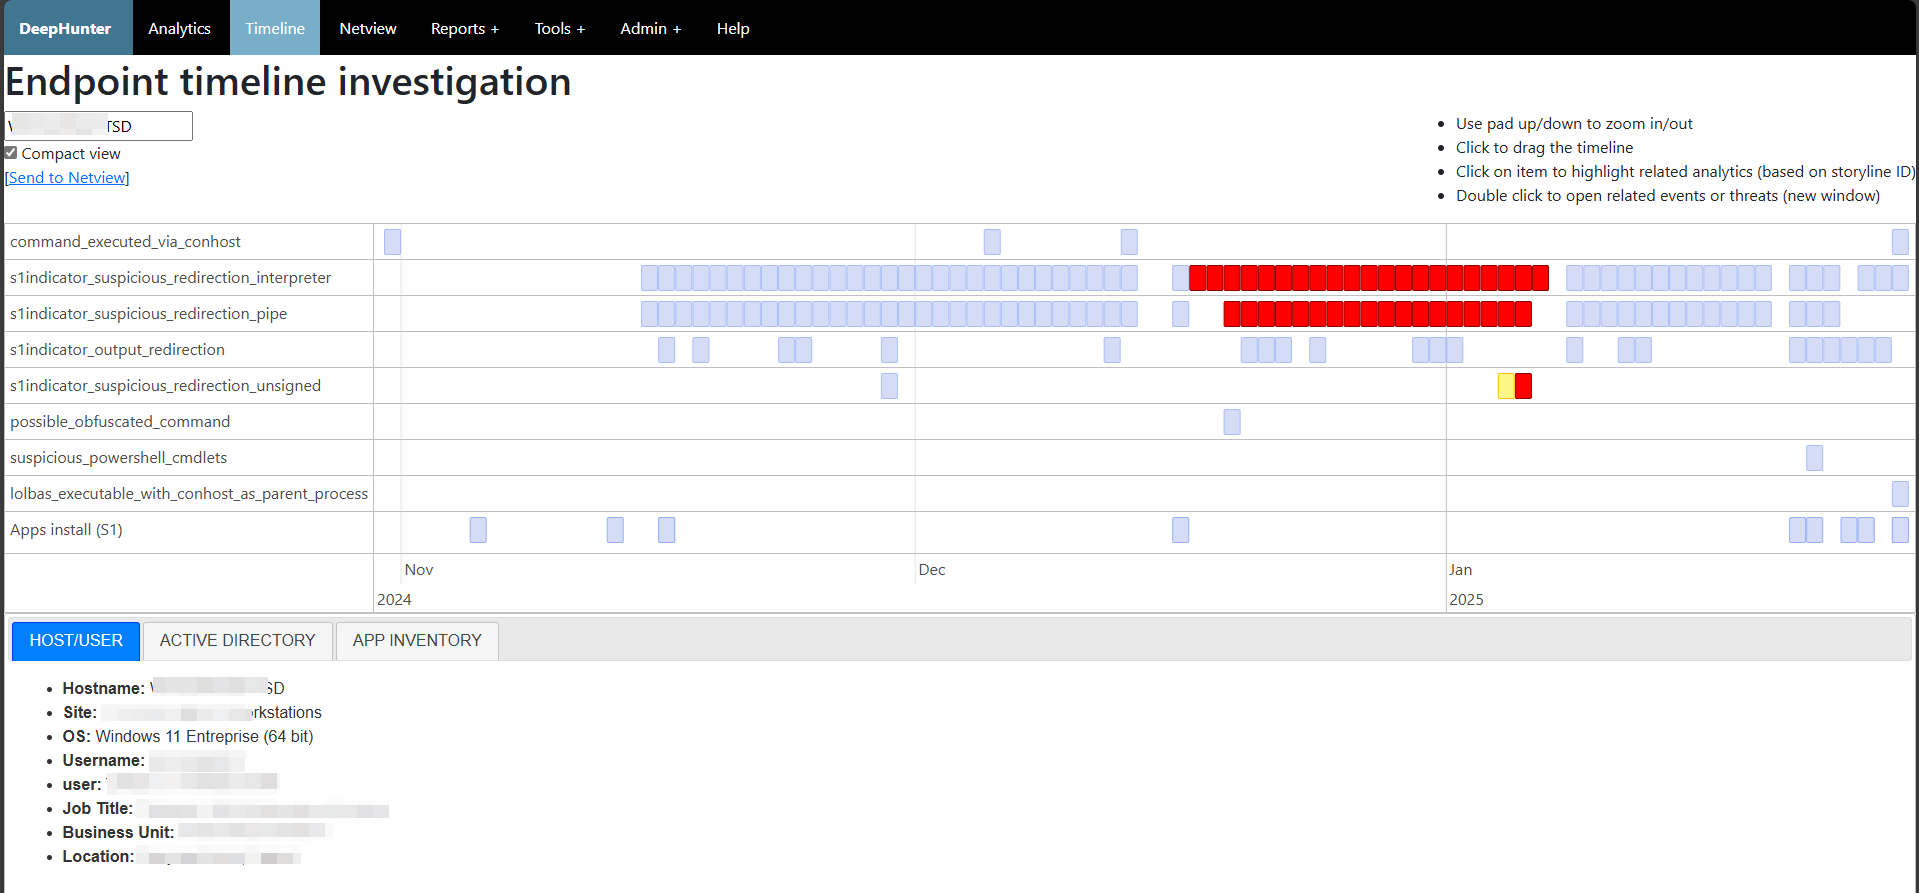
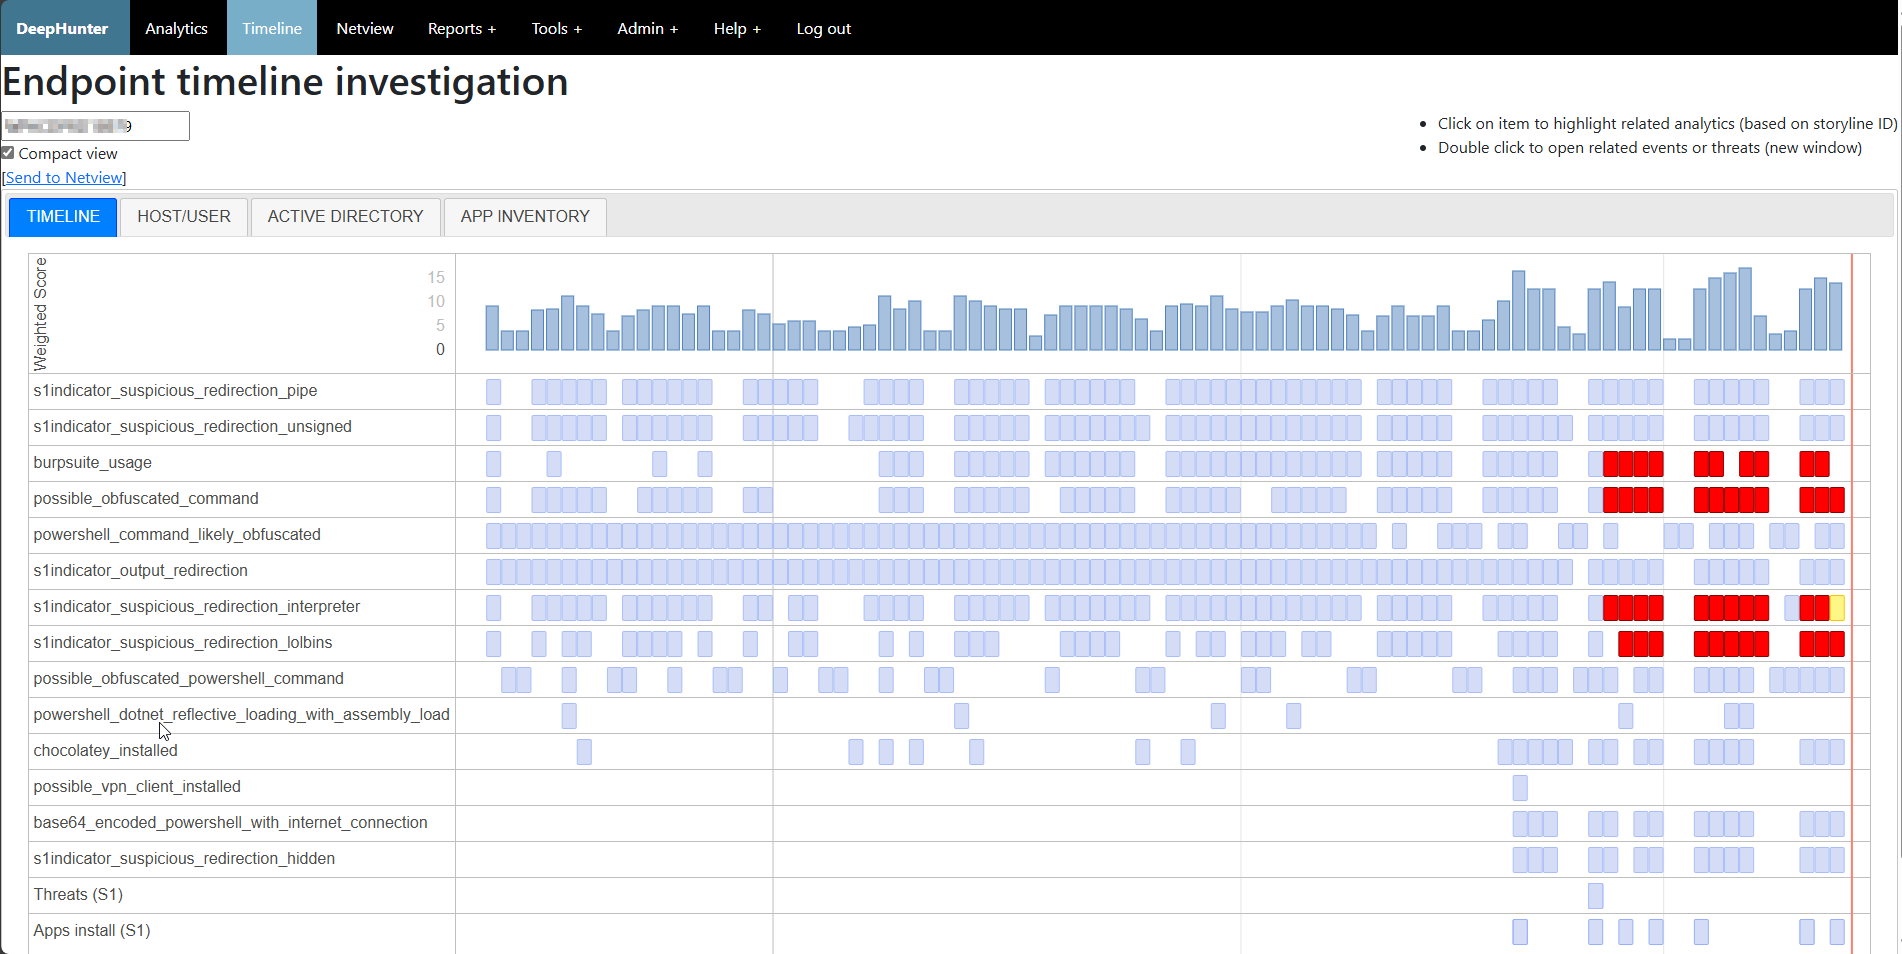
updated doc (timeline with weighted scores graph)

diff --git a/docs/usage_timeline.rst b/docs/usage_timeline.rst
@@ -12,6 +12,7 @@ The timeline shows the distribution of threat hunting analytics available in Dee
 The timeline module contains a lot of useful information for threat hunters and incident responders:
 
 - **List of matching threat hunting analytics**: By simply looking at the list of threat hunting analytics, the threat hunter can estimate risks and build hypothesis. 
+- **Weighted score**: the graph on top shows the evolution of the weighted score (cumulated weighted scores, involving relevance and confidence of each threat hunting analytics).
 - **Distribution over time**: Each blue "box" represents events that match the threat hunting analytic on the header row. Having a visual representation of this distribution is useful to build hypothesis (possible correlation of events).
 - **Storyline highlights**: Mouse over a "box" to display the storylineID (SentinelOne EDR information) associated to the events matching the threat hunting analytic. All nodes with the same storylineID will be highligthed in red, as shown on the above screenshot.
 - **Threats**: Threats (detected by SentinelOne) are shown on a dedicated line. Mouse over threats-related nodes to show the details (threat name, analyst verdict, and confidence level). The storylineID is also gathered for threats.
